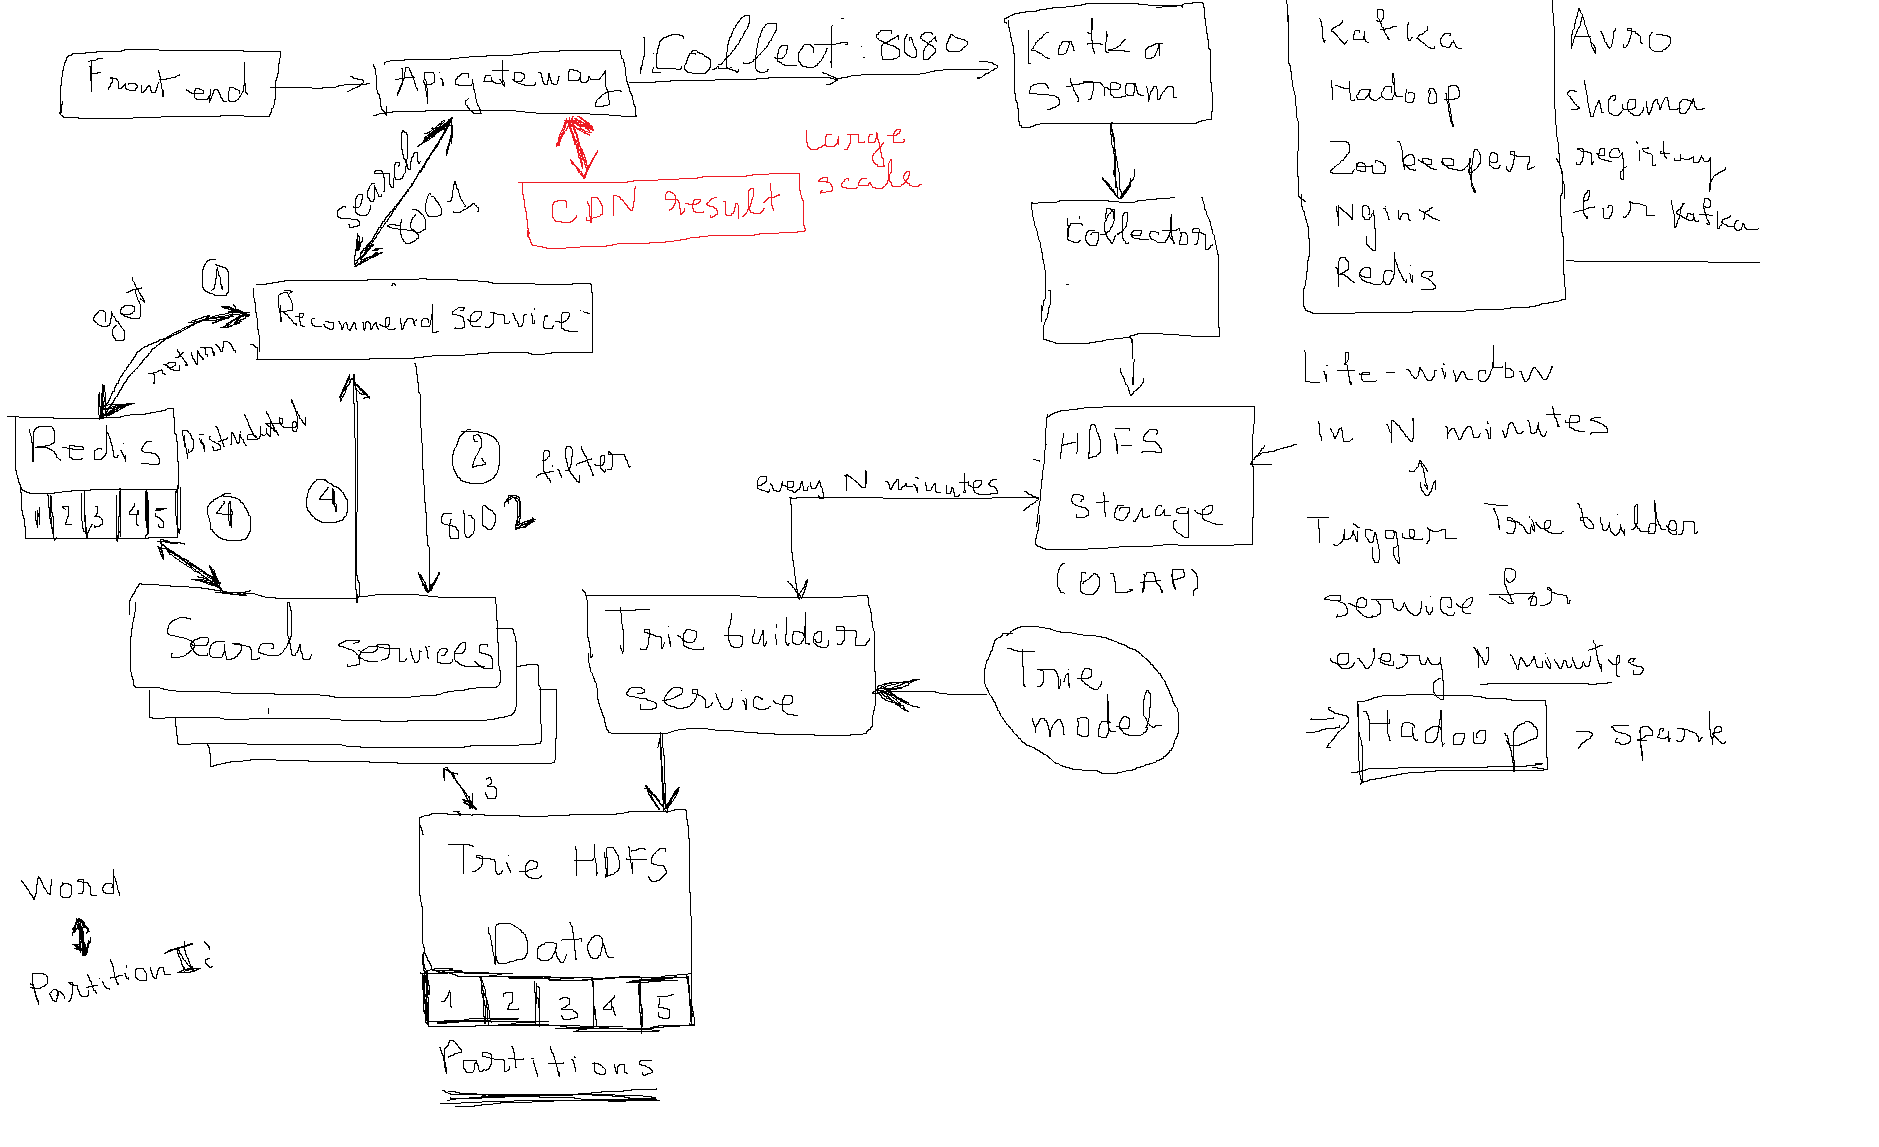
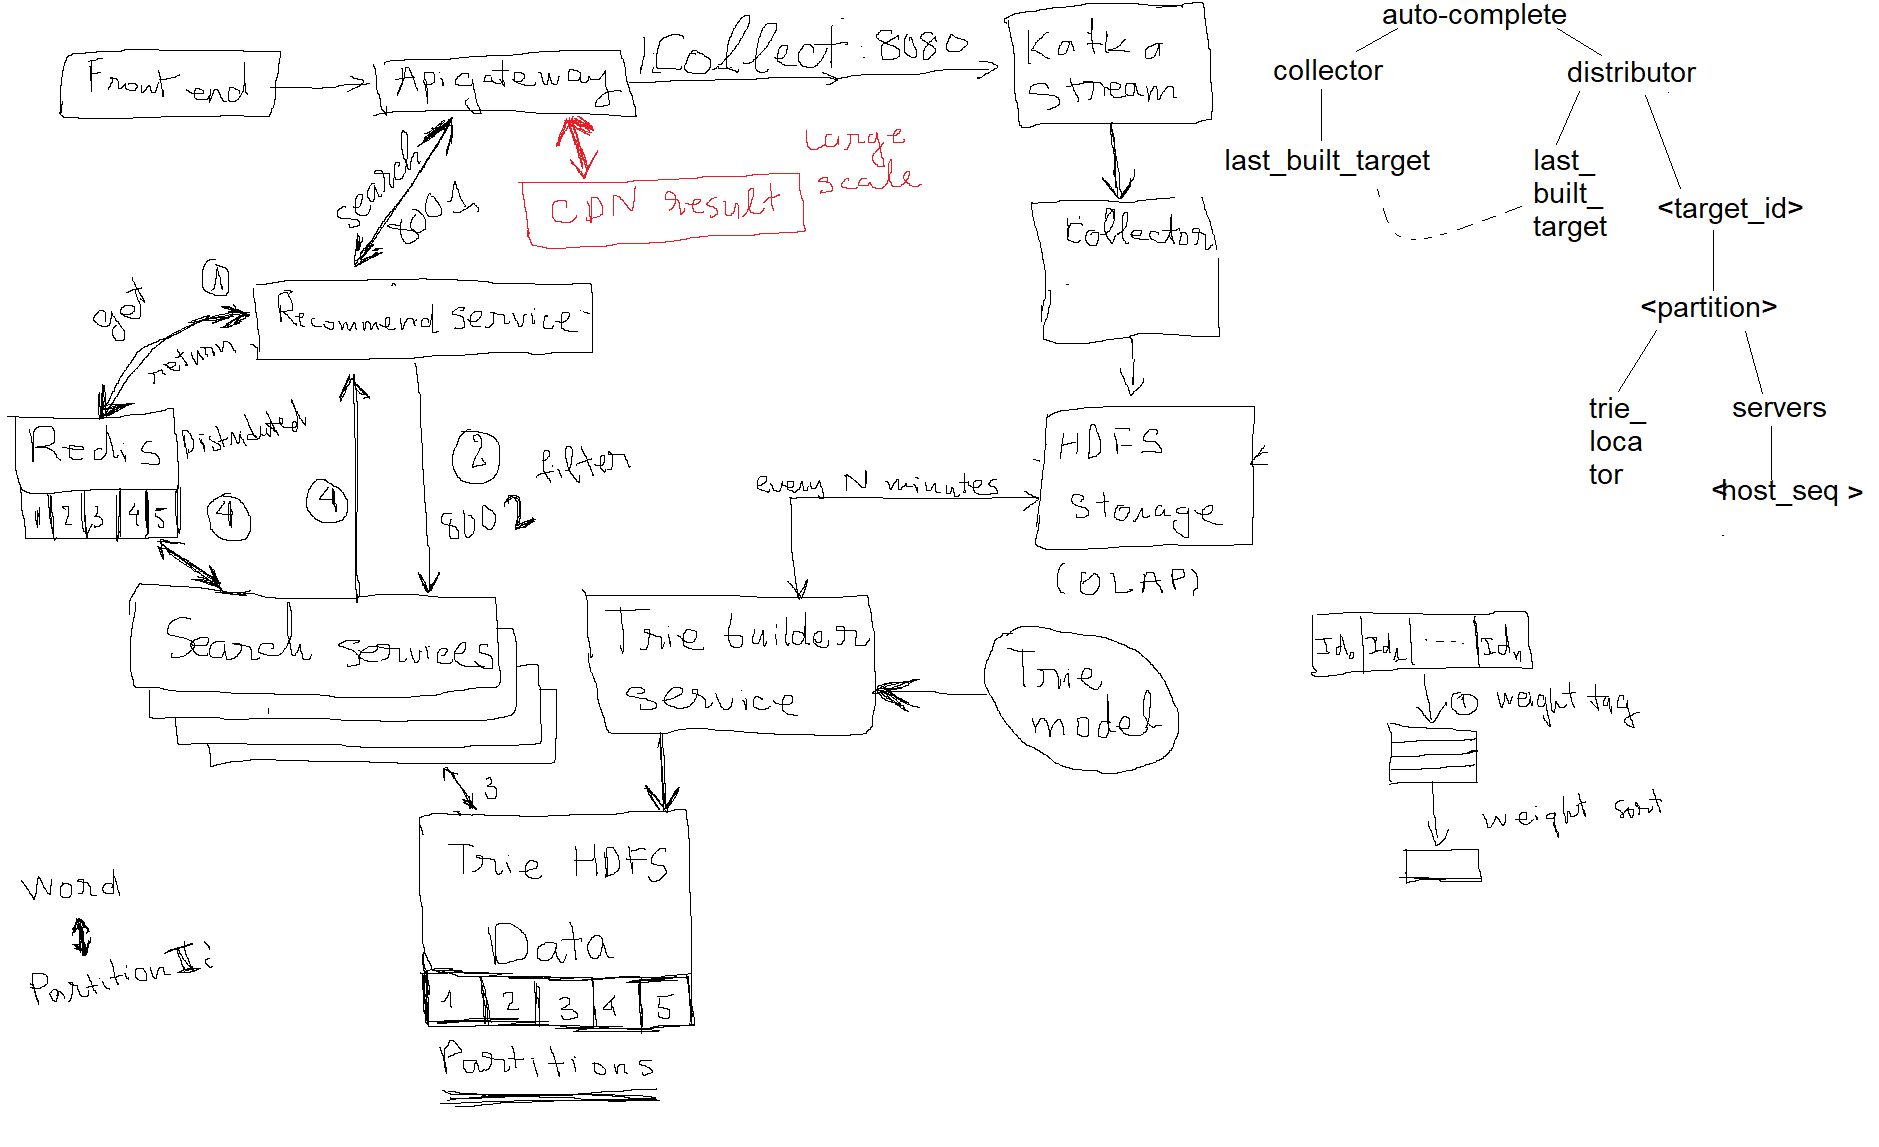
zk fixed

diff --git a/services/auto_complete/models/TrieBuilder.py b/services/auto_complete/models/TrieBuilder.py
@@ -9,7 +9,7 @@ from HdfsClient import HdfsClient
 from MyLogger import MyLogger
 
 ZK_LAST_BUILT_FROM_HADOOP = '/autocomplete/collector/last_built_target'
-ZK_TO_DISTRIBUTOR = '/autocomplete/distributor/from_last_collector'
+ZK_TO_DISTRIBUTOR = '/autocomplete/distributor/last_built_target'
 TRIE_PARTITIONS = int(os.getenv("TRIE_PARTITIONS"))
 #ZK_LAST_BUILT_FROM_HADOOP = '/test'
 
@@ -111,7 +111,7 @@ class TrieBuilder:
         self._zk.set(f'{base_zk_path}/trie_hdfs_locator', trie_hdfs_file.encode())
     
     def _register_last_build_id(self, target_id):
-        base_zk_path = f'/autocomplete/distributor/last_built_target'
+        base_zk_path = ZK_TO_DISTRIBUTOR
         self._zk.ensure_path(base_zk_path)
         self._zk.set(base_zk_path, target_id.encode())
     

diff --git a/services/auto_complete/distributor/recommend/main.py b/services/auto_complete/distributor/recommend/main.py
@@ -7,11 +7,12 @@ app = Flask(__name__)
 
 @app.route('/top-phrases/<phrase>')
 def phrase_recommend(phrase):
-    word_recommender = WordRecommendation()
-    word_recommender.start()
+    #word_recommender = WordRecommendation()
+    #word_recommender.start()
     
-    list_recommeded_phrases = word_recommender.top_phrases_for(phrase)
-    return list_recommeded_phrases
+    #list_recommeded_phrases = word_recommender.top_phrases_for(phrase)
+    #return list_recommeded_phrases
+    return phrase
 
 if __name__ == "__main__":
     SERVICE_PORT = os.getenv("SERVICE_PORT")

diff --git a/services/auto_complete/py_bulk_request.py b/services/auto_complete/py_bulk_request.py
@@ -6,7 +6,7 @@ import random
 import string
 
 url = "http://localhost:8080/api/v1.0/gather"
-concurrent = 10
+concurrent = 5
 q = Queue(concurrent)
 
 def gen_data():
